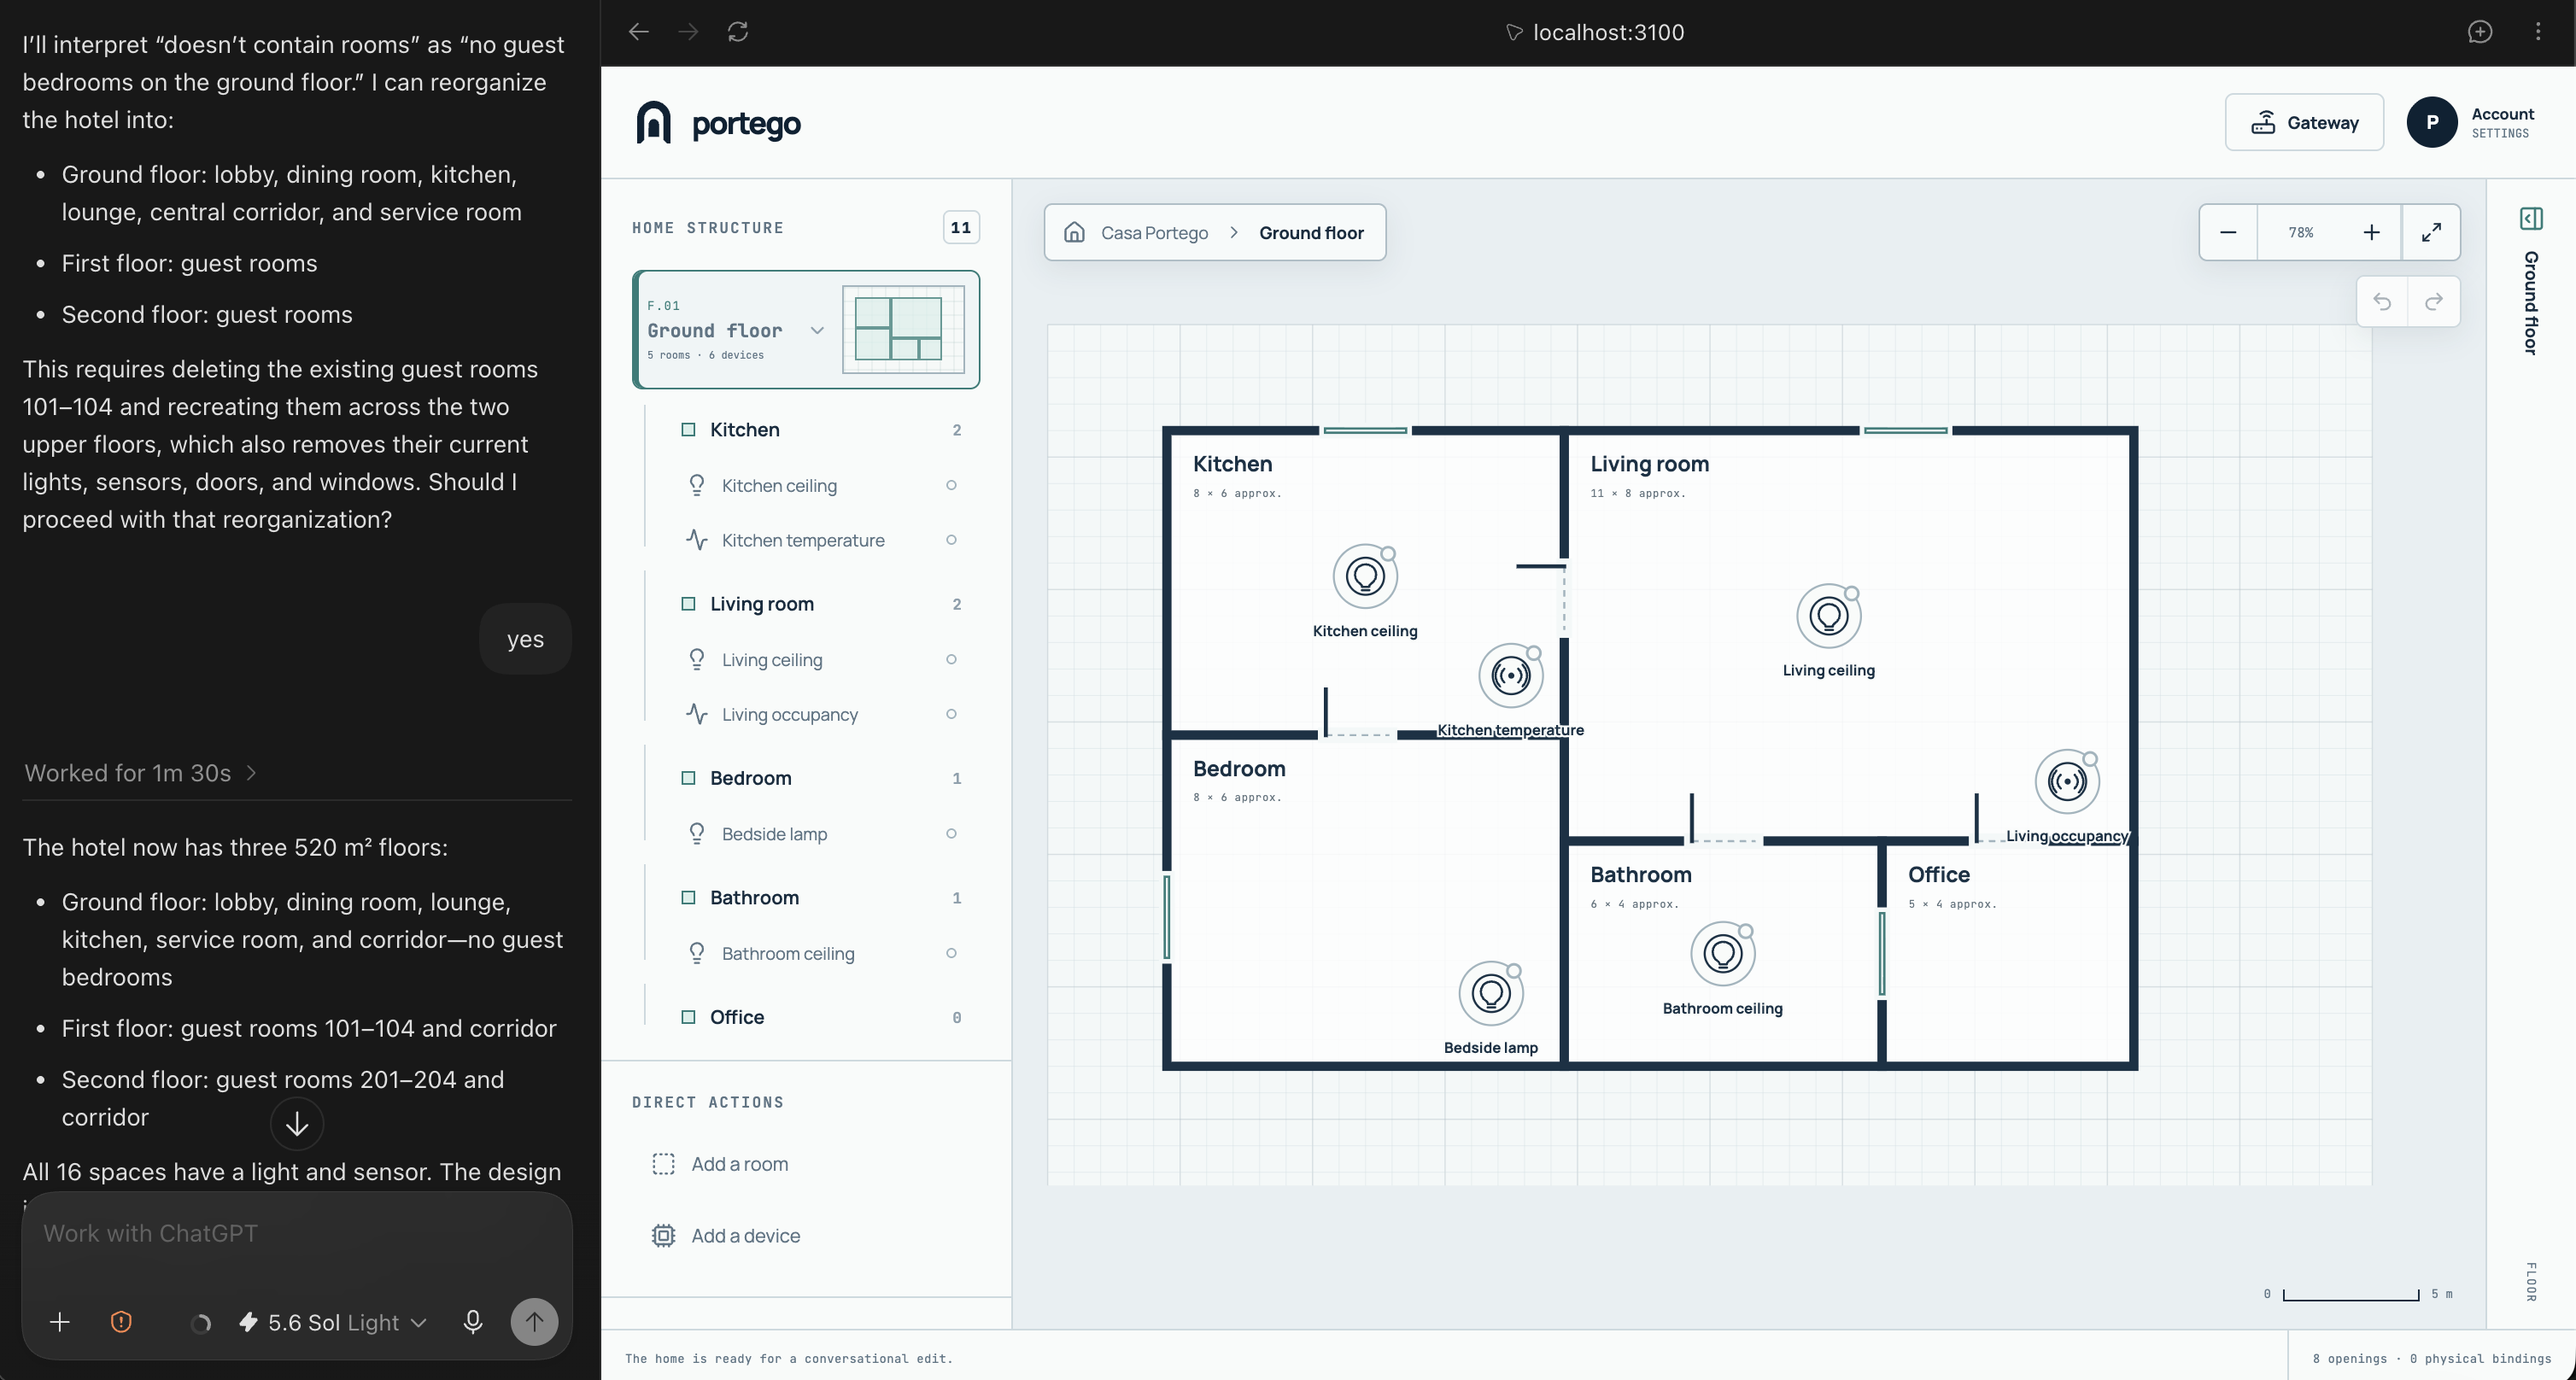
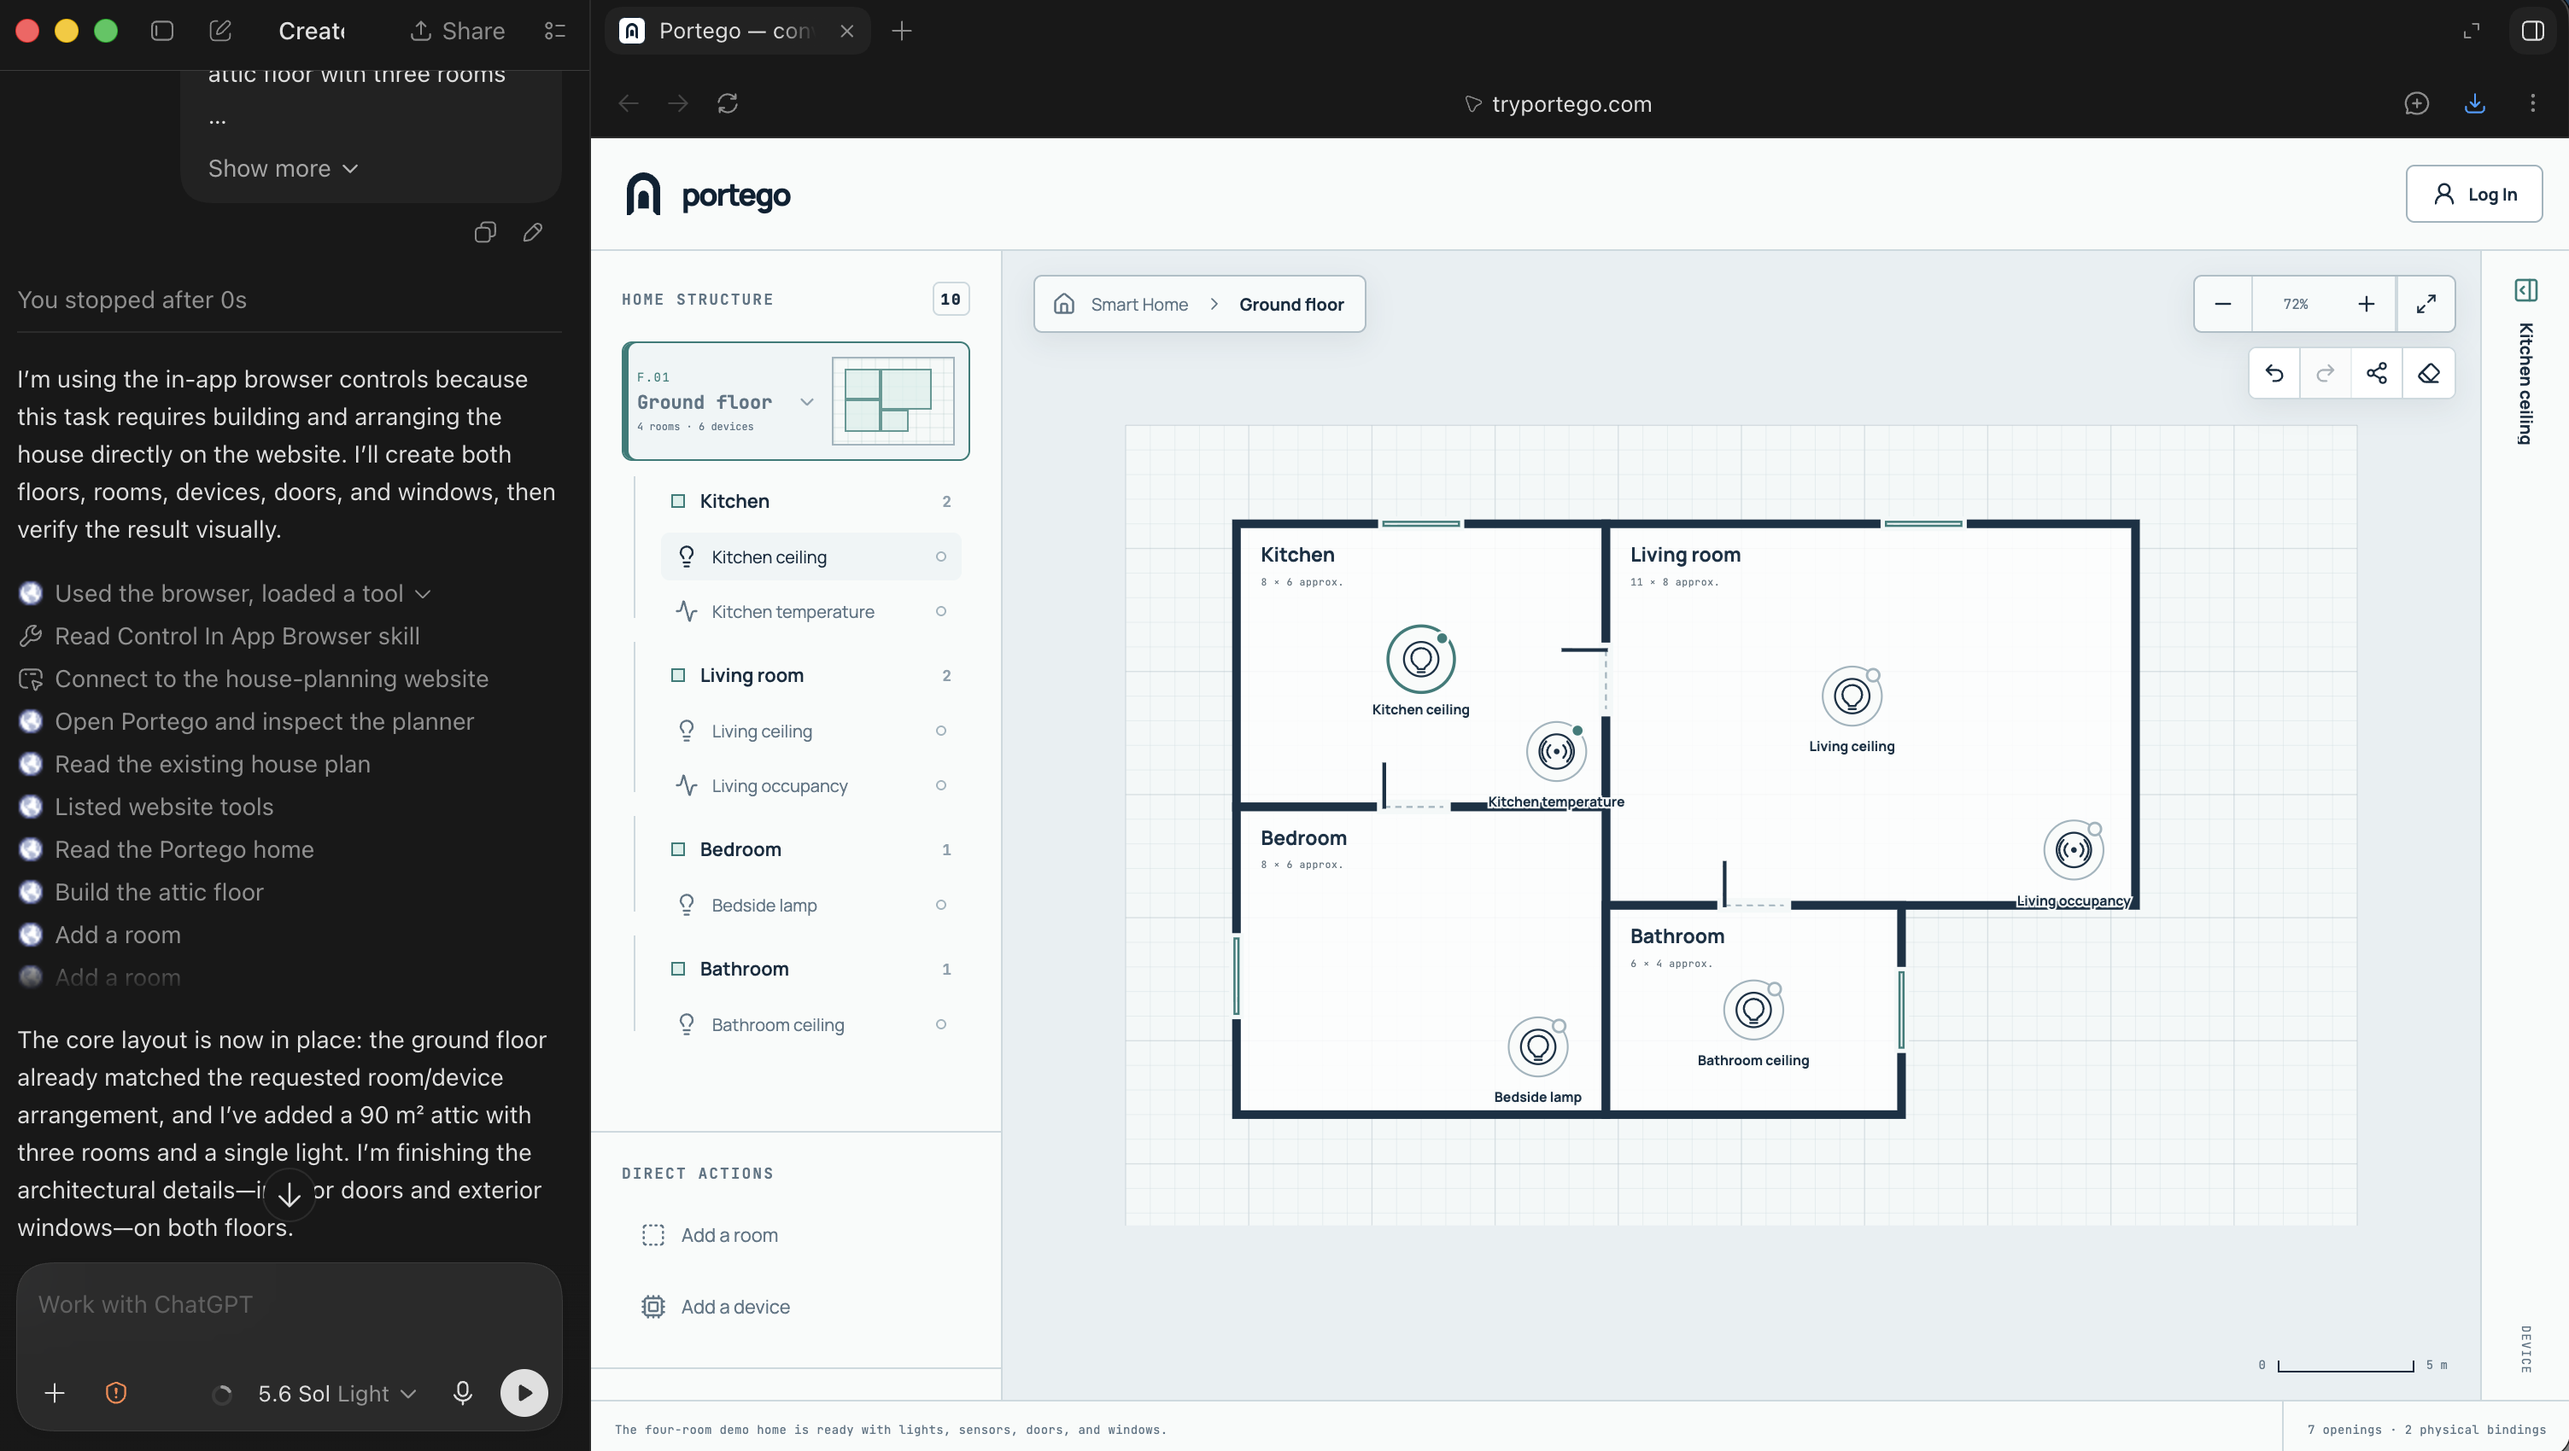
docs: streamline project overview and setup

diff --git a/README.md b/README.md
@@ -1,14 +1,79 @@
-# Portego
+<p align="center">
+  <img src="docs/assets/portego-logo.svg" alt="Portego" width="88" height="88">
+</p>
 
-Portego lets you design and control a smart home through a conversation. An AI
-assistant edits the same spatial home model as the browser UI, while a local
-Linux gateway discovers and controls devices without exposing the home network.
+<h1 align="center">Portego</h1>
+
+<p align="center">
+  <a href="LICENSE"><img src="https://img.shields.io/badge/License-Apache_2.0-blue.svg" alt="License"></a>
+  <a href="https://tryportego.com"><img src="https://img.shields.io/badge/try-tryportego.com-111111" alt="Try Portego"></a>
+  <a href="https://x.com/itsperini"><img src="https://img.shields.io/badge/X-@itsperini-000000" alt="itsperini on X"></a>
+</p>
+
+Portego is a conversational digital twin for the smart home. Describe rooms and
+devices to an assistant, see them on a shared canvas, and later bind that
+design to real hardware through a local Linux gateway.
 
 ![Portego canvas controlled through ChatGPT](docs/assets/portego-webmcp-canvas.png)
 
+## Build your home
+
+Open [tryportego.com](https://tryportego.com) in ChatGPT, Codex, or another
+WebMCP-capable client and ask:
+
+> Go to https://tryportego.com. Create a one-floor house with four rooms: an
+> entrance that opens into a living room, a kitchen to its right, and a bedroom
+> and bathroom along the back. Connect the rooms with doors, add a dimmable
+> ceiling light in each room, and put a switch beside each door.
+
+The assistant edits a validated home model through WebMCP. The same floor plan
+appears in the browser, with undo and direct controls if you want to correct
+it.
+
+> [!NOTE]
+> Already designed a home and want to bind real devices to it? Request
+> private-beta login credentials from [@itsperini](https://x.com/itsperini) on X.
+
+## How it works
+
+- The **web canvas** is the shared spatial model: floors, rooms, devices,
+  doors, and windows.
+- A **Linux gateway** on the home network discovers devices and keeps
+  credentials local. It opens an outbound connection only; no port forwarding.
+- The **cloud API** stores the signed-in home, claims the gateway, and relays
+  short-lived commands.
+- **Adapters** (Shelly today, Matter discovery next) normalize hardware into
+  bindable endpoints. Designed devices stay stable when hardware is replaced.
+
+```mermaid
+flowchart LR
+    C[ChatGPT or Codex]
+    B[Browser]
+    WEB[tryportego.com<br/>Vercel]
+    API[api.tryportego.com<br/>FastAPI / Render]
+    DB[(PostgreSQL)]
+    CF[Cloudflare<br/>Durable Object]
+    G[Gateway<br/>Linux / Raspberry Pi]
+    D[Smart devices]
+
+    C -->|WebMCP| WEB
+    B -->|HTTPS| WEB
+    WEB -->|session + home model| API
+    API --> DB
+    API <-->|direct WebSocket| G
+    API <-->|commands| CF
+    CF <-->|WebSocket| G
+    G -->|mDNS · SSDP · BLE · Matter| D
+```
+
+Vercel hosts the web app at tryportego.com. Render hosts FastAPI at
+api.tryportego.com. The gateway connects with a direct WebSocket to the API,
+or through a Cloudflare Durable Object. Details:
+[`infrastructure/README.md`](infrastructure/README.md).
+
 ## Run locally
 
-You need Docker Desktop with Docker Compose.
+Requires Docker Desktop.
 
 ```sh
 git clone git@github.com:itsperini/portego.git
@@ -16,103 +81,61 @@ cd portego
 pnpm dev
 ```
 
-Open:
-
 - App: <http://localhost:3100>
-- API health: <http://localhost:4000/healthz>
-- API docs: <http://localhost:4000/docs>
+- API: <http://localhost:4000/healthz>
 
-Create a private-beta account. The command asks for the password securely:
+Create a local user (password is prompted, not stored in shell history):
 
 ```sh
 docker compose exec api uv run portego-user create --email you@example.com
 ```
 
+`pnpm check` runs lint, types, tests, and production builds.
+
 ## Connect a gateway
 
-Pair the computer that will stay on the home network:
+![Portego gateway settings](docs/assets/portego-gateway-settings.png)
+
+On the always-on machine in the home, from this repository:
 
 ```sh
-pnpm portego -- setup --api http://localhost:4000 --name "Home gateway"
-```
+pnpm portego -- setup \
+  --api https://api.tryportego.com \
+  --name "Home Raspberry Pi"
 
-Open the URL printed by the command, log in, and approve the code. Then start
-the gateway:
-
-```sh
 pnpm dev:gateway
 ```
 
-The Gateway panel in the app will show it as online and can run discovery on
-the gateway's local network. Raspberry Pi service installation and complete
-gateway commands are documented in [`gateway/README.md`](gateway/README.md).
+Open the printed URL, sign in, and approve the code. Then start the agent.
+For a local API, pass `--api http://localhost:4000` instead.
 
-## Talk to the canvas
+Full CLI, discovery, and Cloudflare transport:
+[`gateway/README.md`](gateway/README.md).
 
-Open Portego in a WebMCP-capable browser or client and ask something like:
-
-> Add a kitchen beside the living room, connect them with a door, and place a
-> dimmable ceiling light in each room.
-
-Portego exposes structured WebMCP tools for homes, floors, rooms, devices,
-bindings, doors, windows, undo, and redo. The assistant changes the validated
-home model instead of clicking arbitrary coordinates.
-
-## How it works
-
-```mermaid
-flowchart LR
-    A[ChatGPT or Codex<br/>WebMCP client] -->|WebMCP tools| W
-    B[Chrome or Codex browser] --> W[Portego web app<br/>Vercel]
-    W -->|HTTPS + session| API[FastAPI<br/>Render]
-    API --> DB[(PostgreSQL<br/>Render)]
-    API -->|direct WebSocket<br/>default| G[Portego gateway<br/>Linux / Raspberry Pi]
-    API <-->|authenticated commands| CF[Cloudflare Worker<br/>+ Durable Object]
-    CF <-->|optional WebSocket| G
-    G -->|mDNS · SSDP · local API<br/>BLE · Matter| D[Smart devices]
-```
-
-- **Vercel** serves the Next.js canvas and its WebMCP tools.
-- **Render** runs the FastAPI API and PostgreSQL database.
-- **Cloudflare** optionally provides an edge relay with one hibernatable
-  Durable Object connection per gateway.
-- **The gateway** runs inside the home and only makes outbound connections.
-- **Adapters** translate Matter, Shelly, and future protocols into one Portego
-  device model.
-
-The Cloudflare path is optional; direct gateway-to-Render WebSocket remains the
-default. See [`infrastructure/cloudflare-relay/README.md`](infrastructure/cloudflare-relay/README.md).
-
-## Repository map
+## Repository
 
 | Path | Purpose |
 | --- | --- |
-| [`apps/web`](apps/web/README.md) | Next.js, Konva canvas, and WebMCP tools |
-| [`apps/api`](apps/api/README.md) | FastAPI authentication, homes, and gateway relay |
-| [`gateway`](gateway/README.md) | Gateway CLI, agent, discovery, and runtime |
-| [`adapters`](adapters/README.md) | Device and protocol integrations |
-| [`packages`](packages/README.md) | Shared models, messages, and gateway contracts |
-| [`infrastructure`](infrastructure/README.md) | Render and optional Cloudflare deployment |
-| [`docs/architecture`](docs/architecture) | Architecture decision records |
+| [`apps/web`](apps/web/README.md) | Next.js canvas and WebMCP tools |
+| [`apps/api`](apps/api/README.md) | Auth, homes, gateway claim, and command relay |
+| [`gateway`](gateway/README.md) | Linux agent, CLI, and discovery |
+| [`adapters`](adapters/README.md) | Protocol drivers |
+| [`packages`](packages/README.md) | Shared home model and gateway contracts |
+| [`docs/architecture`](docs/architecture) | Architecture decisions |
 
-## Verify the repository
+Private beta includes canvas editing, persisted homes, gateway claiming, Shelly
+control, and Matter discovery (commissioning not enabled yet). Public signup,
+remote MCP OAuth, and a packaged Pi service are still planned.
 
-```sh
-pnpm check
-```
+## Get involved
 
-This runs formatting and lint checks, TypeScript and Python type checks, tests,
-and production builds across the monorepo.
+Portego is still in beta. The canvas is open to try; accounts and live hardware
+are invite-only. Contributions of all kinds are welcome: adapters, docs, bugs,
+and ideas.
 
-## Current scope
-
-Implemented: private-beta login, persistent homes, a Konva floor-plan editor,
-WebMCP editing, gateway claiming, local discovery, Shelly support, Matter
-discovery boundaries, direct WebSocket transport, and the optional Cloudflare
-relay.
-
-Still planned: public signup and recovery, multiple homes, production MCP OAuth,
-full Matter commissioning, and an installable Raspberry Pi system service.
+> [!TIP]
+> Try the canvas at [tryportego.com](https://tryportego.com), open an issue or
+> pull request on this repo, and reach [@itsperini](https://x.com/itsperini) on X.
 
 ## License
 
